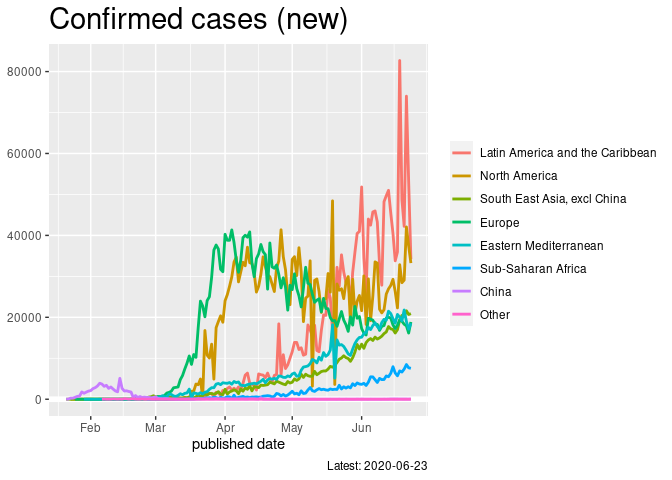
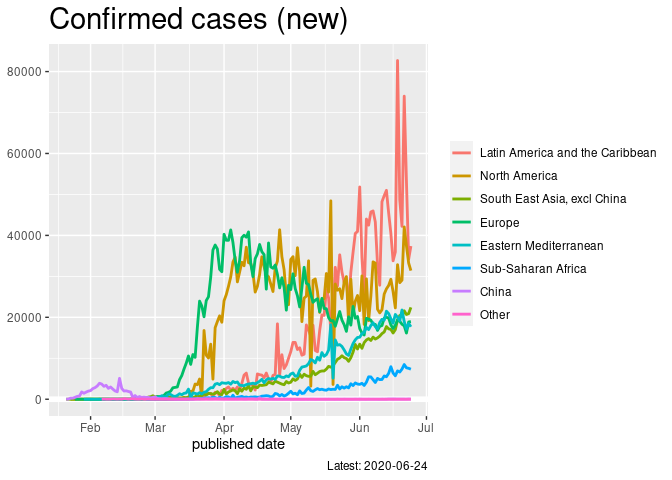
update README, as coutrycode.org is now available

diff --git a/README.md b/README.md
@@ -11,7 +11,7 @@ Mitsuo Shiota
   - [Highest deaths per population
     areas](#highest-deaths-per-population-areas)
 
-Updated: 2020-06-24
+Updated: 2020-06-25
 
 I added “USA, Covid-19 situation by state” in [another page](USA.md).
 
@@ -87,26 +87,26 @@ per day since cumulative cases became more than 100, are:
     ## # A tibble: 20 x 4
     ##    area           speed_since_100 cum_conf days_since_100
     ##    <chr>                    <dbl>    <dbl>          <int>
-    ##  1 United States           20256.  2268753            112
-    ##  2 Brazil                  10742.  1085038            101
-    ##  3 Russia                   6181.   599705             97
-    ##  4 India                    4358.   440215            101
-    ##  5 United Kingdom           2774.   305293            110
-    ##  6 Peru                     2627.   254936             97
-    ##  7 Chile                    2493    246963             99
-    ##  8 Spain                    2180.   246504            113
-    ##  9 Italy                    1972.   238720            121
-    ## 10 Turkey                   1945.   188897             97
-    ## 11 Mexico                   1879.   180545             96
-    ## 12 Pakistan                 1867.   185034             99
-    ## 13 Iran                     1757.   207525            118
-    ## 14 Germany                  1673.   190862            114
-    ## 15 Saudi Arabia             1593.   161005            101
-    ## 16 Bangladesh               1483.   115786             78
-    ## 17 France                   1369.   154892            113
-    ## 18 South Africa             1046.   101590             97
-    ## 19 Canada                    983.   101337            103
-    ## 20 Colombia                  714     68652             96
+    ##  1 United States           20311.  2295272            113
+    ##  2 Brazil                  10847.  1106470            102
+    ##  3 Russia                   6191.   606881             98
+    ##  4 India                    4471.   456183            102
+    ##  5 United Kingdom           2758.   306214            111
+    ##  6 Peru                     2626.   257447             98
+    ##  7 Chile                    2506.   250767            100
+    ##  8 Spain                    2163.   246752            114
+    ##  9 Italy                    1957.   238833            122
+    ## 10 Turkey                   1939.   190165             98
+    ## 11 Mexico                   1907.   185122             97
+    ## 12 Pakistan                 1887.   188926            100
+    ## 13 Iran                     1763.   209970            119
+    ## 14 Germany                  1664.   191449            115
+    ## 15 Saudi Arabia             1608.   164144            102
+    ## 16 Bangladesh               1507.   119198             79
+    ## 17 France                   1360.   155256            114
+    ## 18 South Africa             1082.   106108             98
+    ## 19 Canada                    976.   101637            104
+    ## 20 Colombia                  733.    71183             97
 
 Above calculation might be unfair to populous areas. Below
 “per\_capita\_cum\_conf” is cumulative cases per 1 million population.
@@ -117,26 +117,26 @@ cases per 1 million population since cumulative cases became more than
     ## # A tibble: 20 x 4
     ##    area               speed_std_since_100 per_capita_cum_conf days_since_100
     ##    <chr>                            <dbl>               <dbl>          <int>
-    ##  1 Chile                            149.               14747.             99
-    ##  2 Peru                              87.8               8524.             97
-    ##  3 Belarus                           71.5               6094.             85
-    ##  4 United States                     65.3               7313.            112
-    ##  5 Saudi Arabia                      61.9               6257.            101
-    ##  6 Sweden                            56.4               6167.            109
-    ##  7 Brazil                            53.4               5395.            101
-    ##  8 Belgium                           53.3               5820.            109
-    ##  9 Spain                             46.9               5300.            113
-    ## 10 United Kingdom                    44.5               4897.            110
-    ## 11 Russia                            43.9               4262.             97
-    ## 12 Switzerland                       37.5               4118.            109
-    ## 13 Portugal                          36.1               3690.            102
-    ## 14 Ecuador                           35.2               3424.             97
-    ## 15 Italy                             32.7               3956.            121
-    ## 16 Dominican Republic                30.0               2786.             92
-    ## 17 Canada                            29.2               3009.            103
-    ## 18 Bolivia                           29.1               2452.             84
-    ## 19 Israel                            27.8               2830.            101
-    ## 20 Netherlands                       27.3               2983.            109
+    ##  1 Chile                            150.               14974.            100
+    ##  2 Peru                              87.8               8608.             98
+    ##  3 Belarus                           71.2               6142.             86
+    ##  4 United States                     65.5               7399.            113
+    ##  5 Saudi Arabia                      62.5               6379.            102
+    ##  6 Sweden                            57.7               6366.            110
+    ##  7 Brazil                            53.9               5502.            102
+    ##  8 Belgium                           53.0               5845.            110
+    ##  9 Spain                             46.5               5306.            114
+    ## 10 United Kingdom                    44.2               4911.            111
+    ## 11 Russia                            44.0               4313.             98
+    ## 12 Switzerland                       37.2               4122.            110
+    ## 13 Portugal                          36.0               3722.            103
+    ## 14 Ecuador                           35.5               3492.             98
+    ## 15 Italy                             32.4               3958.            122
+    ## 16 Dominican Republic                30.3               2844.             93
+    ## 17 Bolivia                           30.0               2563.             85
+    ## 18 Canada                            29.0               3018.            104
+    ## 19 Israel                            28.0               2877.            102
+    ## 20 Netherlands                       27.1               2987.            110
 
 ## Highest fatality rate areas
 
@@ -147,26 +147,26 @@ per 100 cumulative confirmed cases, are:
     ## # A tibble: 20 x 4
     ##    area           fatality_rate cum_deaths cum_conf
     ##    <chr>                  <dbl>      <dbl>    <dbl>
-    ##  1 Yemen                  26.6         258      971
-    ##  2 France                 19.1       29591   154892
-    ##  3 Belgium                16.0        9696    60550
-    ##  4 Italy                  14.5       34657   238720
-    ##  5 United Kingdom         14.0       42647   305293
+    ##  1 Yemen                  26.3         262      996
+    ##  2 France                 19.1       29648   155256
+    ##  3 Belgium                16.0        9713    60810
+    ##  4 Italy                  14.5       34675   238833
+    ##  5 United Kingdom         14.0       42927   306214
     ##  6 Hungary                14.0         573     4107
-    ##  7 Netherlands            12.3        6090    49658
-    ##  8 Mexico                 12.1       21825   180545
-    ##  9 Spain                  11.5       28324   246504
-    ## 10 Sweden                  8.69       5122    58932
-    ## 11 Chad                    8.62         74      858
-    ## 12 Ecuador                 8.34       4223    50640
-    ## 13 Canada                  8.32       8430   101337
-    ## 14 Algeria                 7.15        852    11920
-    ## 15 Niger                   6.41         67     1046
-    ## 16 Romania                 6.27       1523    24291
-    ## 17 Sudan                   6.13        533     8698
+    ##  7 Netherlands            12.3        6095    49722
+    ##  8 Mexico                 12.2       22584   185122
+    ##  9 Spain                  11.5       28325   246752
+    ## 10 Chad                    8.60         74      860
+    ## 11 Sweden                  8.48       5161    60837
+    ## 12 Canada                  8.30       8436   101637
+    ## 13 Ecuador                 8.28       4274    51643
+    ## 14 Algeria                 7.13        861    12076
+    ## 15 Niger                   6.37         67     1051
+    ## 16 Romania                 6.28       1539    24505
+    ## 17 Sudan                   6.14        540     8791
     ## 18 Burkina Faso            5.87         53      903
-    ## 19 Greece                  5.78        190     3287
-    ## 20 Mali                    5.66        111     1961
+    ## 19 Greece                  5.75        190     3302
+    ## 20 Mali                    5.61        111     1978
 
 ## Highest deaths per population areas
 
@@ -177,25 +177,25 @@ population, are:
     ## # A tibble: 20 x 4
     ##    area           deaths_per_1m cum_deaths pop_mil
     ##    <chr>                  <dbl>      <dbl>   <dbl>
-    ##  1 Belgium                932.        9696   10.4 
-    ##  2 United Kingdom         684.       42647   62.3 
-    ##  3 Spain                  609.       28324   46.5 
-    ##  4 Italy                  574.       34657   60.3 
-    ##  5 Sweden                 536.        5122    9.56
-    ##  6 France                 457.       29591   64.8 
-    ##  7 United States          386.      119761  310.  
-    ##  8 Netherlands            366.        6090   16.6 
-    ##  9 Ecuador                286.        4223   14.8 
-    ## 10 Peru                   269.        8045   29.9 
-    ## 11 Chile                  269.        4502   16.7 
-    ## 12 Brazil                 252.       50617  201.  
-    ## 13 Canada                 250.        8430   33.7 
-    ## 14 Switzerland            222.        1680    7.58
-    ## 15 Mexico                 194.       21825  112.  
-    ## 16 Portugal               144.        1534   10.7 
-    ## 17 Iran                   127.        9742   76.9 
-    ## 18 Denmark                110.         602    5.48
-    ## 19 Germany                109.        8895   81.8 
-    ## 20 Austria                 84.1        690    8.20
+    ##  1 Belgium                934.        9713   10.4 
+    ##  2 United Kingdom         689.       42927   62.3 
+    ##  3 Spain                  609.       28325   46.5 
+    ##  4 Italy                  575.       34675   60.3 
+    ##  5 Sweden                 540.        5161    9.56
+    ##  6 France                 458.       29648   64.8 
+    ##  7 United States          387.      120171  310.  
+    ##  8 Netherlands            366.        6095   16.6 
+    ##  9 Ecuador                289.        4274   14.8 
+    ## 10 Peru                   275.        8223   29.9 
+    ## 11 Chile                  269.        4505   16.7 
+    ## 12 Brazil                 255.       51271  201.  
+    ## 13 Canada                 250.        8436   33.7 
+    ## 14 Switzerland            221.        1679    7.58
+    ## 15 Mexico                 201.       22584  112.  
+    ## 16 Portugal               144.        1540   10.7 
+    ## 17 Iran                   128.        9863   76.9 
+    ## 18 Denmark                110.         603    5.48
+    ## 19 Germany                109.        8914   81.8 
+    ## 20 Austria                 84.5        693    8.20
 
 EOL
